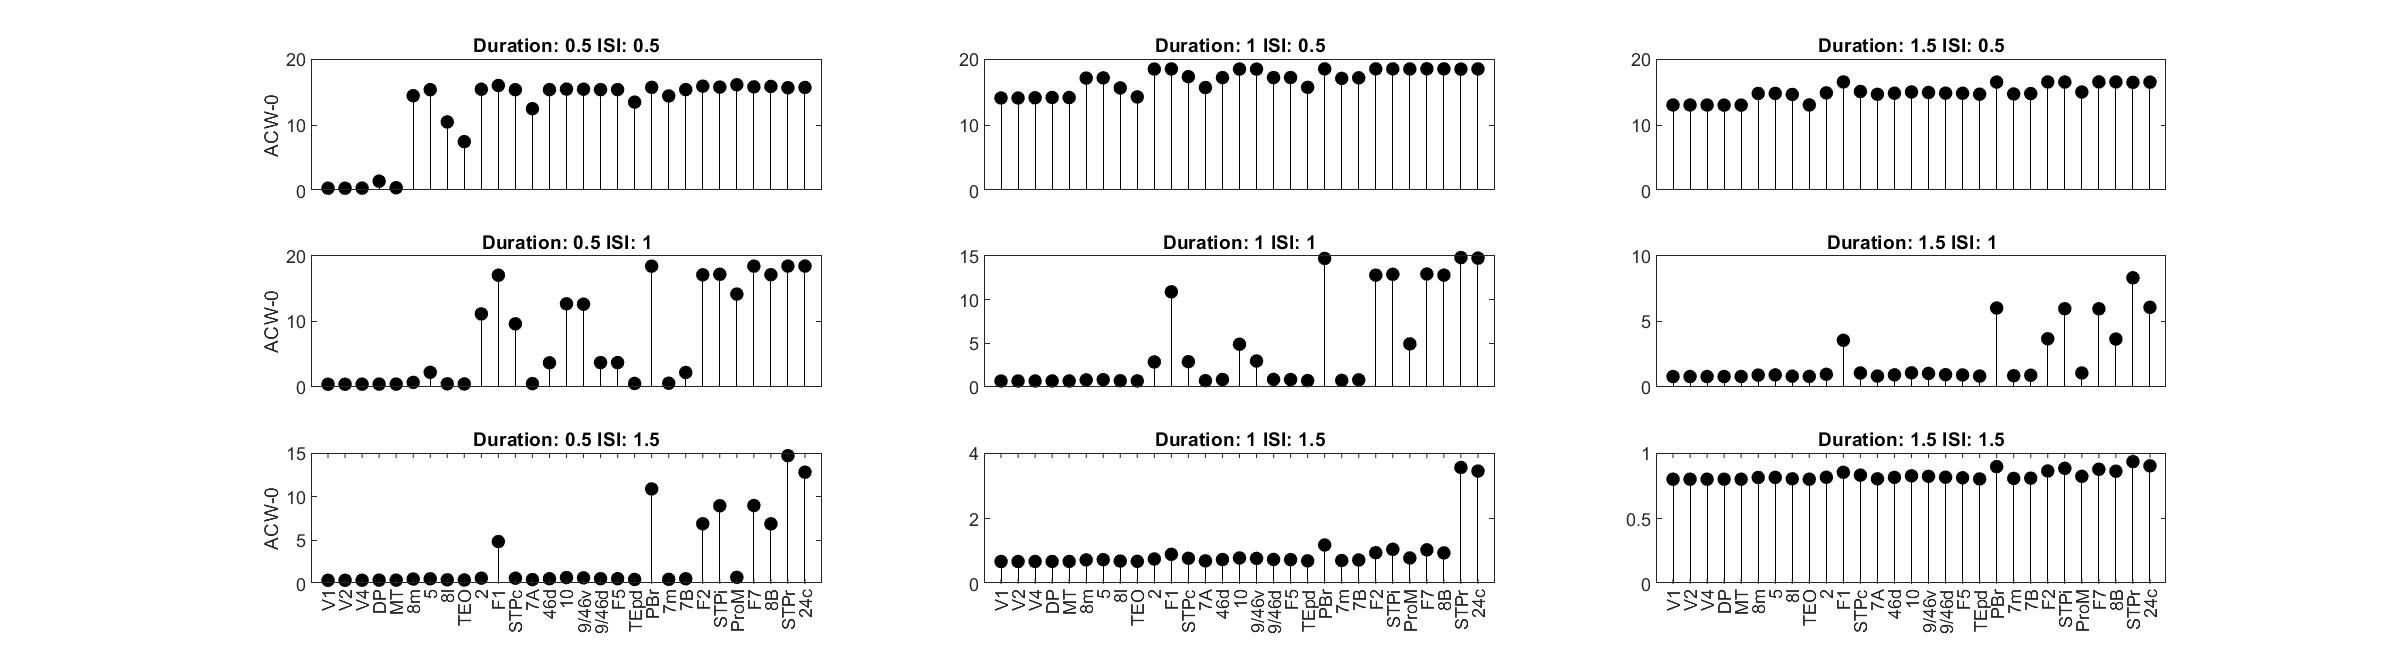
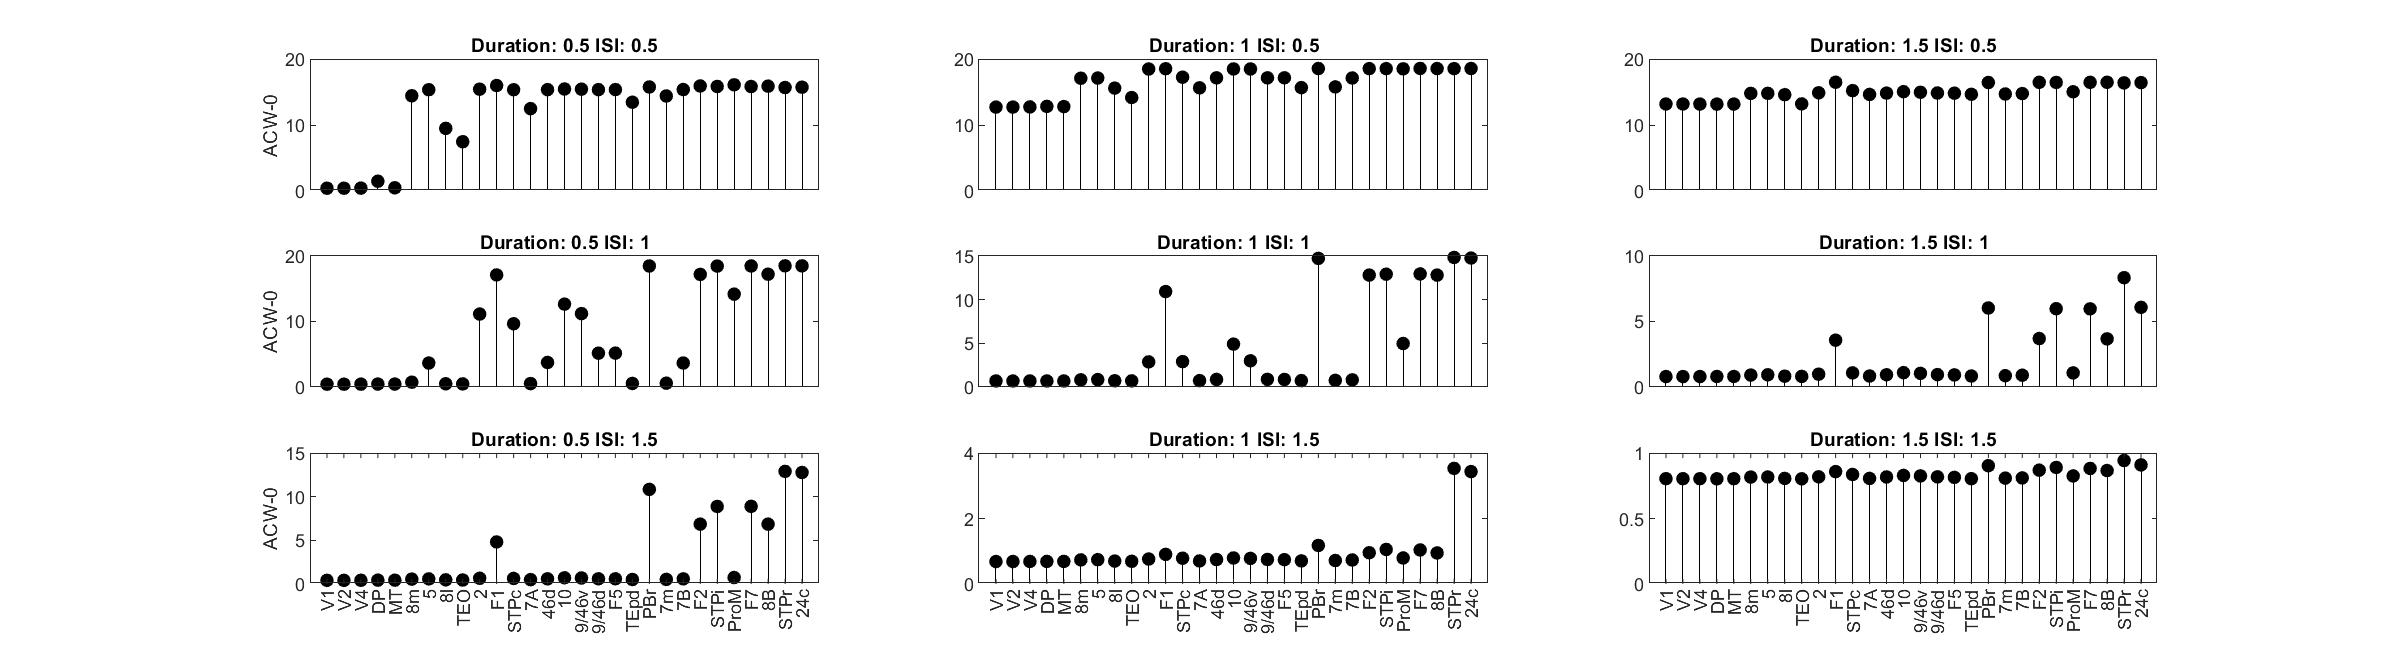
Switched to trial based, boxcars taken out

diff --git a/simulations.m b/simulations.m
@@ -8,101 +8,29 @@ init
 %% Start with colored noise input
 
 ple = 0:0.2:1.6;
-figure;
-for i = 1:length(ple)
-    
-    noisesource = dsp.ColoredNoise(ple(i), ntime, 1);    
-    noise = noisesource();
-    
-    p.I_ext_E  = zeros([29 ntime]);
-    p.I_ext_E(1,:) = noise;
-    
-    [v_E, time] = chaudhuri(p);
-    
-    acw_0 = zeros(1, nrois);
-    for j = 1:size(v_E, 1)
-        acw_0(j) = acw(v_E(j, :), (1/p.dt)*1000);
-    end
-    
-    subplot(3, 3, i)
-    stem(1:nrois, acw_0, 'k', 'filled')
-    if any(i == [1 4 7]), ylabel('ACW-0'),end
-    if any(i == [7 8 9]), xticks(1:nrois), xticklabels(rois), xtickangle(90), else, xticks({}), end
-    ylim([0 6])
-    
-    title(['PLE of external stimulus: ', num2str(ple(i))])
-end
-
-saveas(gcf, [projectfolder, '\figures\noises.jpg'])
-%% Proceed with boxcars with ISIs and durations
-
-isis = [0.5 1 1.5]; % ISIs
-durs = [0.5 1 1.5]; % Durations
-str = 3; % Strength of boxcar
-inputtrange = [54 115];
-ninput = 20;
-p.tspan = inputtrange(2);
-timevector = 0:p.dt:p.tspan/p.dt*1000;
-ntime = length(timevector);
-
-figure;
-c = 1;
-for i = 1:length(isis)
-    for j = 1:length(durs)
-        isi = isis(i);
-        dur = durs(j);
+ntrials = 50;
+acw_0 = zeros(length(ple), nrois, ntrials);
+for c = 1:ntrials
+    tic
+    disp(['Trial ' num2str(c), ' started'])
+    for i = 1:length(ple)
         
-        boxcar = zeros([1 ntime]);
-        noise = randn([1 ntime]);
-        
-        tstart = inputtrange(1);
-        tend = tstart - isi;
-        
-        for m = 1:ninput
-            tstart = tend+isi;
-            tend = tstart + dur;
-            boxcar(tstart*1000:p.dt:tend*1000) = str;
-        end
+        noisesource = dsp.ColoredNoise(ple(i), ntime, 1);
+        noise = noisesource();
         
         p.I_ext_E  = zeros([29 ntime]);
-        p.I_ext_E(1,:) = noise + boxcar;
-    
+        p.I_ext_E(1,:) = noise;
+        
         [v_E, time] = chaudhuri(p);
         
-        acw_0 = zeros(1, nrois);
-        for m = 1:size(v_E, 1)
-            acw_0(m) = acw(v_E(m, :), (1/p.dt)*1000);
+        
+        
+        for j = 1:size(v_E, 1)
+            acw_0(i, j, c) = acw(v_E(j, :), (1/p.dt)*1000);
         end
-        
-        subplot(3, 3, c)
-        
-        stem(1:nrois, acw_0, 'k', 'filled')
-        if any(c == [1 4 7]), ylabel('ACW-0'),end
-        if any(c == [7 8 9]), xticks(1:nrois), xticklabels(rois), xtickangle(90), else, xticks({}), end
-%         ylim([0 5])
-    
-        title(['Duration: ', num2str(dur), ' ISI: ', num2str(isi)])
-        c = c + 1;
     end
+    disp(['Trial ' num2str(c), ' finished'])
+    toc
 end
 
-saveas(gcf, [projectfolder, '\figures\boxcars.jpg'])
-
-
-
-
-
-
-
-
-
-
-
-
-
-
-
-
-
-
-
+save([projectfolder, '\data\acw_0results.mat'], 'acw_0')
